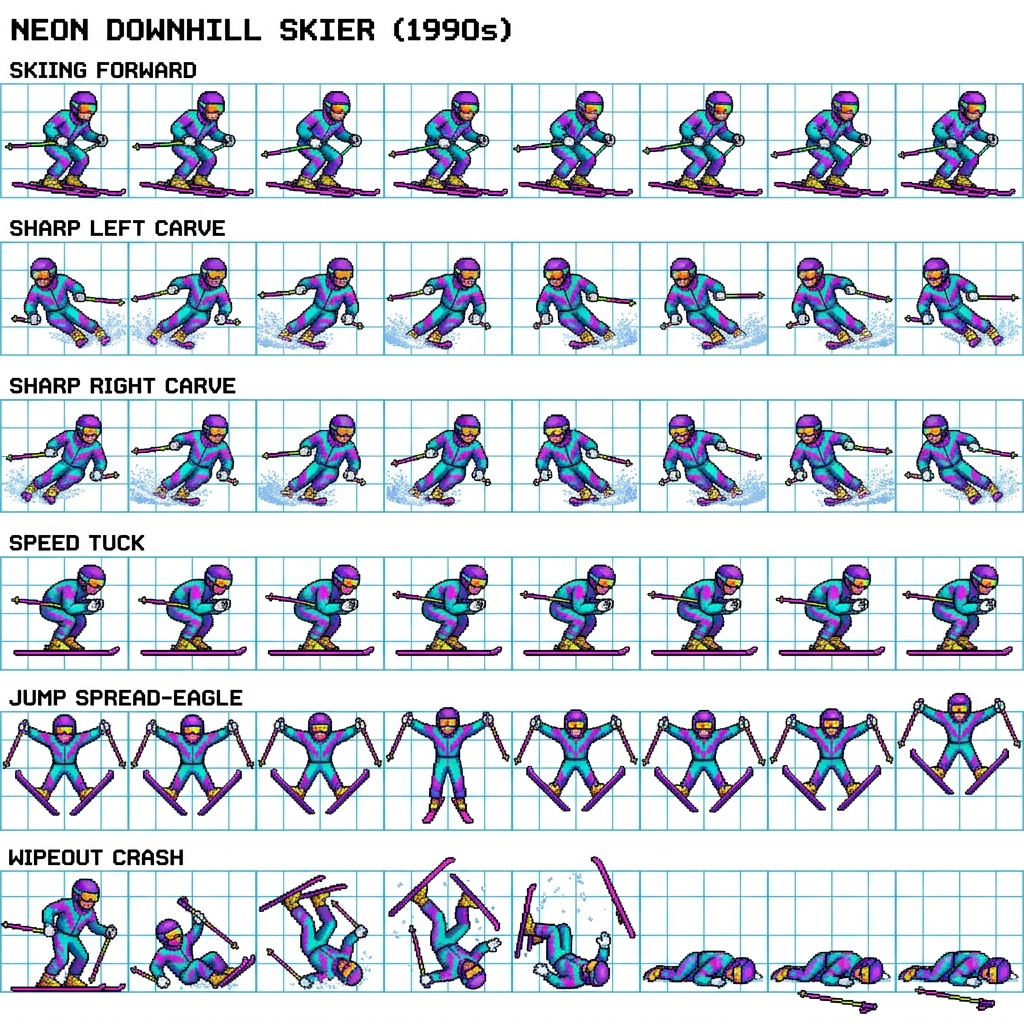
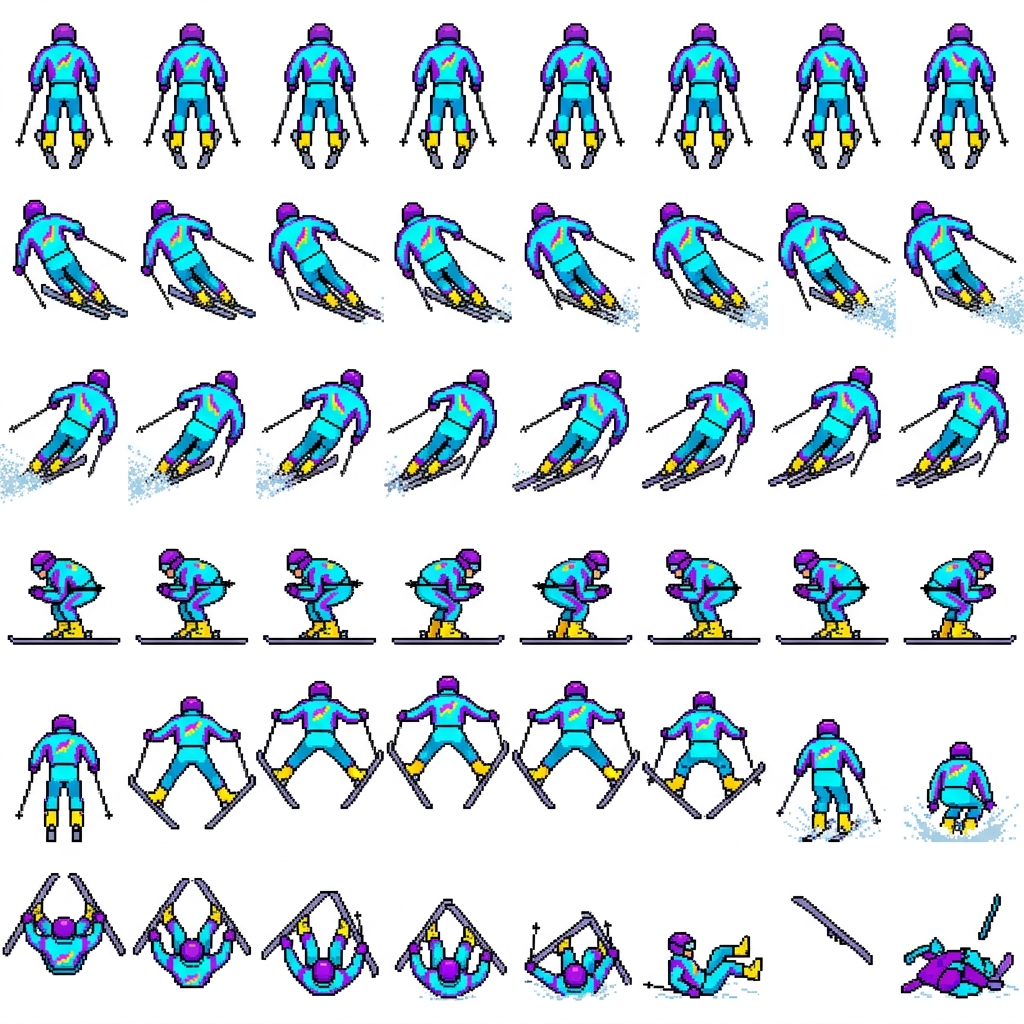
Fix skier downhill backview orientation and elevate chase camera

diff --git a/public/js/SceneManager.js b/public/js/SceneManager.js
@@ -11,9 +11,9 @@ export class SceneManager {
     this.renderer = null;
     this.textureLoader = new THREE.TextureLoader();
 
-    this.isFPV = true; // Default: First-Person View (FPV)
-    this.cameraOffset = new THREE.Vector3(0, 2.8, -5.5);
-    this.cameraLookOffset = new THREE.Vector3(0, 1.2, 14.0);
+    this.isFPV = false; // Default: Third-Person View (TPV Chase Cam)
+    this.cameraOffset = new THREE.Vector3(0, 6.0, -9.2);
+    this.cameraLookOffset = new THREE.Vector3(0, 1.0, 9.5);
 
     this.terrainMesh = null;
     this.snowParticles = null;
@@ -367,34 +367,38 @@ export class SceneManager {
     }
 
     if (this.isFPV) {
-      // First-Person View (FPV): Inside the Skier Goggles / Helmet
+      // First-Person View (FPV): Inside the Skier Goggles / Helmet looking down the mountain (+Z)
       this.camera.position.set(playerPos.x, playerPos.y + playerAirY + 1.40, playerPos.z + 0.2);
-      this.camera.rotation.y = -playerSteer * 0.45; // Smooth head turn into carve
-      this.camera.rotation.x = playerPitch - 0.04;   // Tuck downhill / brake
-      this.camera.rotation.z = -playerSteer * 0.18;  // Natural body roll bank into turn
+      const fpvLookTarget = new THREE.Vector3(
+        playerPos.x + Math.sin(playerSteer) * 8.0,
+        playerPos.y + playerAirY + 1.30 + playerPitch * 2.0,
+        playerPos.z + 20.0
+      );
+      this.camera.lookAt(fpvLookTarget);
+      this.camera.rotation.z = -playerSteer * 0.18; // Natural body roll bank into turn
     } else {
       // Third-Person View (TPV Chase Cam)
       if (this.skierTexture && this.skierSprite) {
         if (playerAirY > 0.4) {
-          this.skierTexture.offset.set(2 * 0.125, 0.1667);
+          this.skierTexture.offset.set(2 * 0.125, 0.1667); // Jump tricks row
           this.skierSprite.material.rotation = playerAirRoll;
         } else if (playerSteer < -0.35) {
-          this.skierTexture.offset.set(4 * 0.125, 0.5000);
+          this.skierTexture.offset.set(3 * 0.125, 0.6667); // Sharp Left Carve (seen from behind)
           this.skierSprite.material.rotation = -0.15;
         } else if (playerSteer < -0.10) {
-          this.skierTexture.offset.set(1 * 0.125, 0.5000);
+          this.skierTexture.offset.set(1 * 0.125, 0.6667); // Gentle Left Carve (seen from behind)
           this.skierSprite.material.rotation = -0.06;
         } else if (playerSteer > 0.35) {
-          this.skierTexture.offset.set(4 * 0.125, 0.6667);
+          this.skierTexture.offset.set(3 * 0.125, 0.5000); // Sharp Right Carve (seen from behind)
           this.skierSprite.material.rotation = 0.15;
         } else if (playerSteer > 0.10) {
-          this.skierTexture.offset.set(1 * 0.125, 0.6667);
+          this.skierTexture.offset.set(1 * 0.125, 0.5000); // Gentle Right Carve (seen from behind)
           this.skierSprite.material.rotation = 0.06;
         } else if (playerPitch < -0.05) {
-          this.skierTexture.offset.set(2 * 0.125, 0.3333);
+          this.skierTexture.offset.set(2 * 0.125, 0.3333); // Speed Tuck (seen from behind)
           this.skierSprite.material.rotation = 0;
         } else {
-          this.skierTexture.offset.set(0.0, 0.8333);
+          this.skierTexture.offset.set(0.0, 0.8333); // Straight Downhill Glide (seen from behind)
           this.skierSprite.material.rotation = 0;
         }
       }
